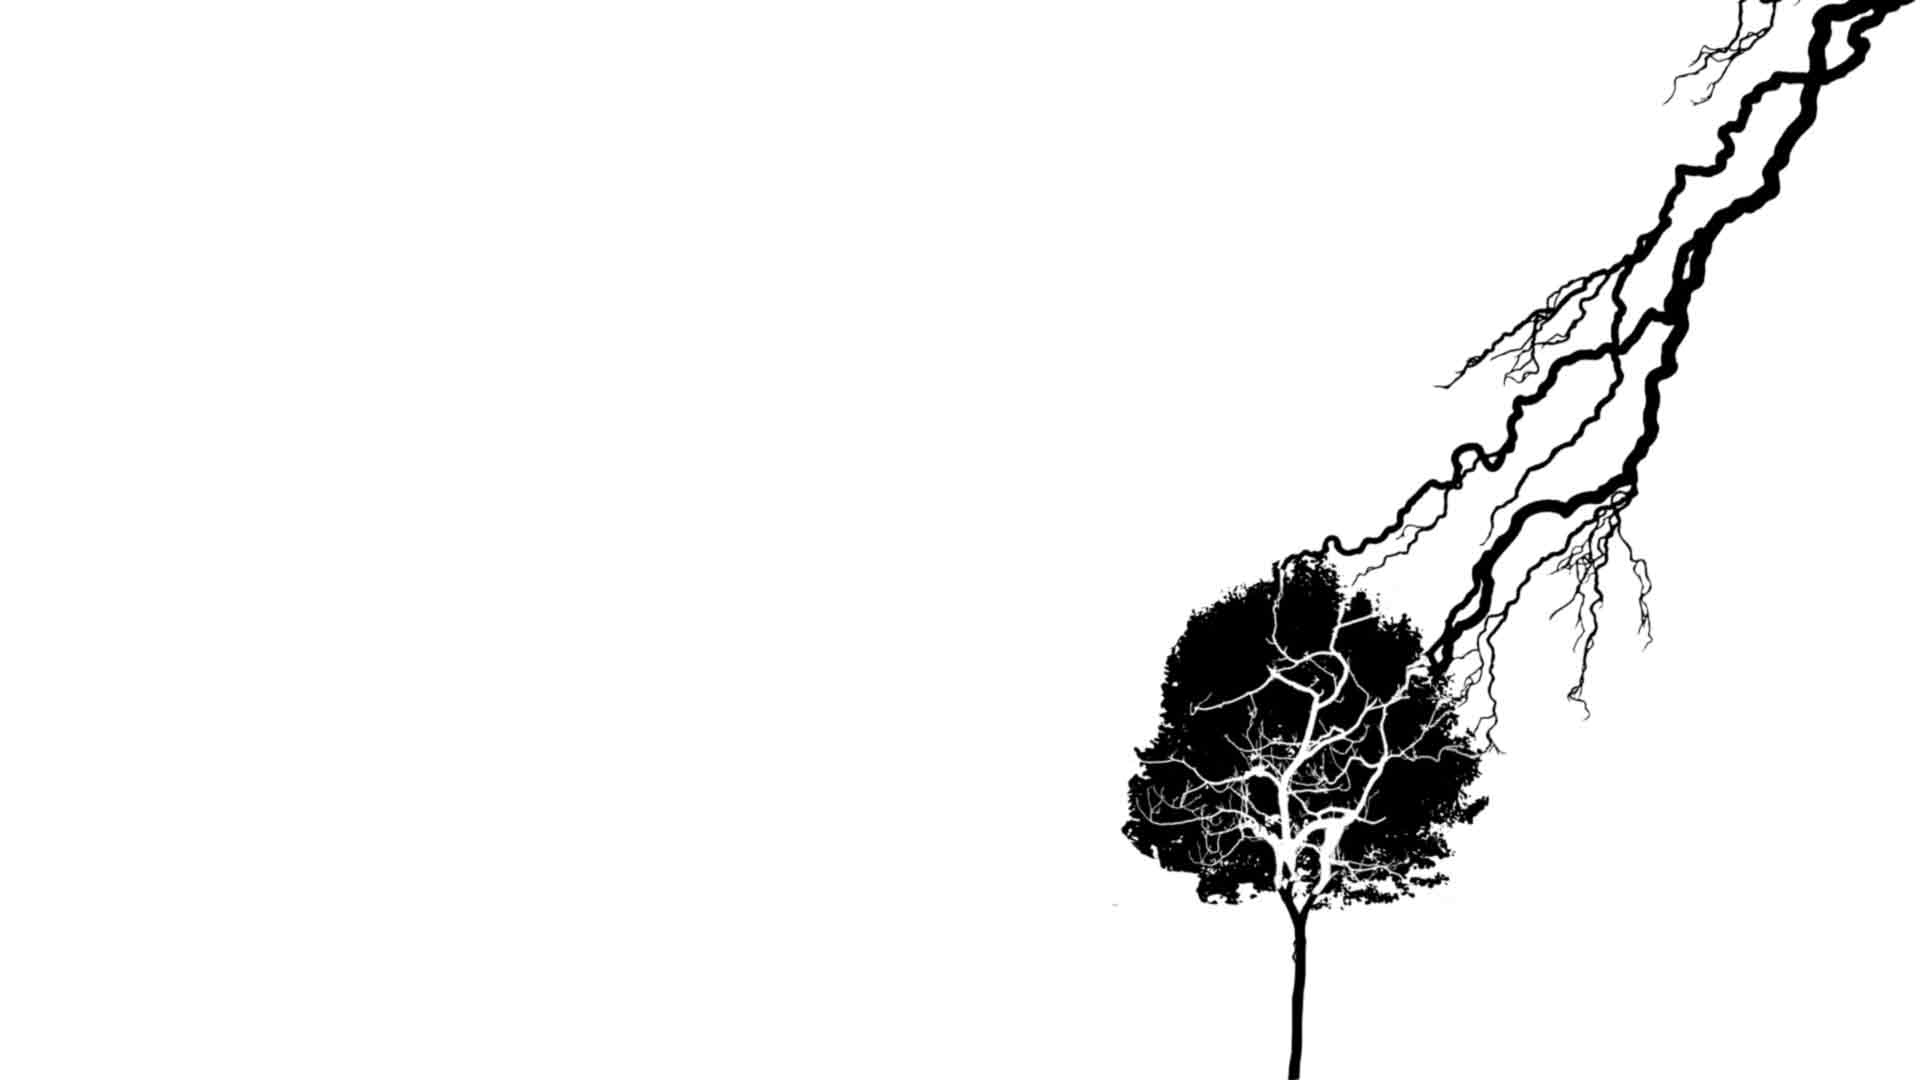
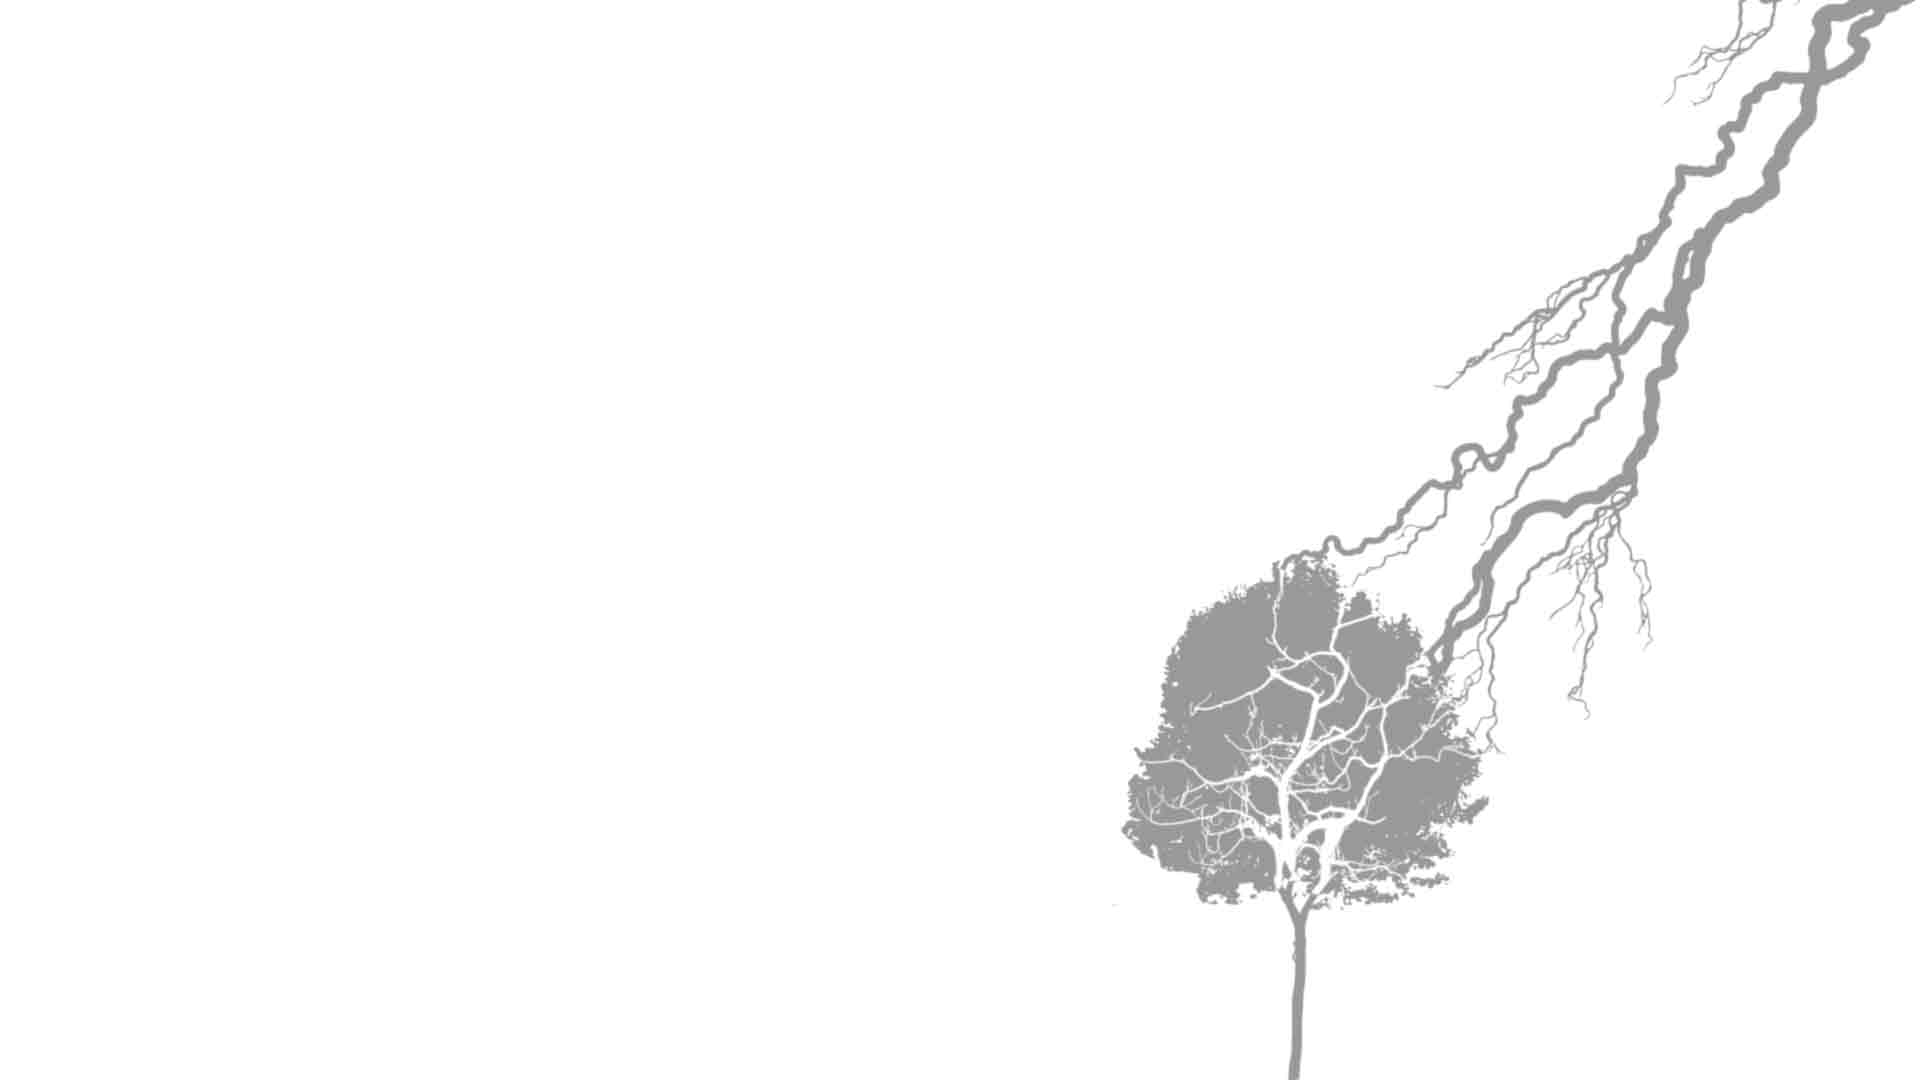
tweaked about images

Changed region(s): [[0.5625, 0.0, 1.0, 1.0]]

diff --git a/index.html b/index.html
@@ -317,10 +317,10 @@
 
   <section class="about-section" id="about-section">
 
-		<div class="background-image large" style="background-image: url(assets/img/fon_background.jpg);"></div>
-    <div class="background-image medium" style="background-image: url(assets/img/fon_background_1200.jpg);"></div>
-    <div class="background-image medium-small" style="background-image: url(assets/img/fon_background_800.jpg);"></div>
-    <div class="background-image small" style="background-image: url(assets/img/fon_background_600.jpg);"></div>
+		<img class="background-image large" src="assets/img/fon_background.jpg" />
+    <img class="background-image medium" src="assets/img/fon_background_1200.jpg" />
+    <img class="background-image medium-small" src="assets/img/fon_background_800.jpg" />
+    <img class="background-image small" src="assets/img/fon_background_600.jpg" />
 
     <h3 class="title">About</h3>
     <p>

diff --git a/assets/css/styles.css b/assets/css/styles.css
@@ -677,7 +677,6 @@ section p{
 	min-height: 100vh;
 	text-align: left;
 	align-items: flex-start;
-	/*background-color: white;*/
 }
 
 .about-section .background-image.large {
@@ -685,6 +684,10 @@ section p{
 }
 
 .about-section .background-image.medium {
+	display: none;
+}
+
+.about-section .background-image.medium-small {
 	display: none;
 }
 
@@ -697,23 +700,9 @@ section p{
 	position: absolute;
 	bottom: 0;
 	right: 0;
-	width: 100vw;
-	max-width: 100vw;
 	height: 100%;
 	background-size: cover;
-	/*background-color: #FFFFFF;*/
 	z-index: -1;
-}
-
-.about-section .background-image:after{
-	content: '';
-	position: absolute;
-	top: 0;
-	left: 0;
-	width: 100%;
-	height: 100%;
-	background-color: #FFFFFF;
-	opacity: 0.7;
 }
 
 .about-section h1{
